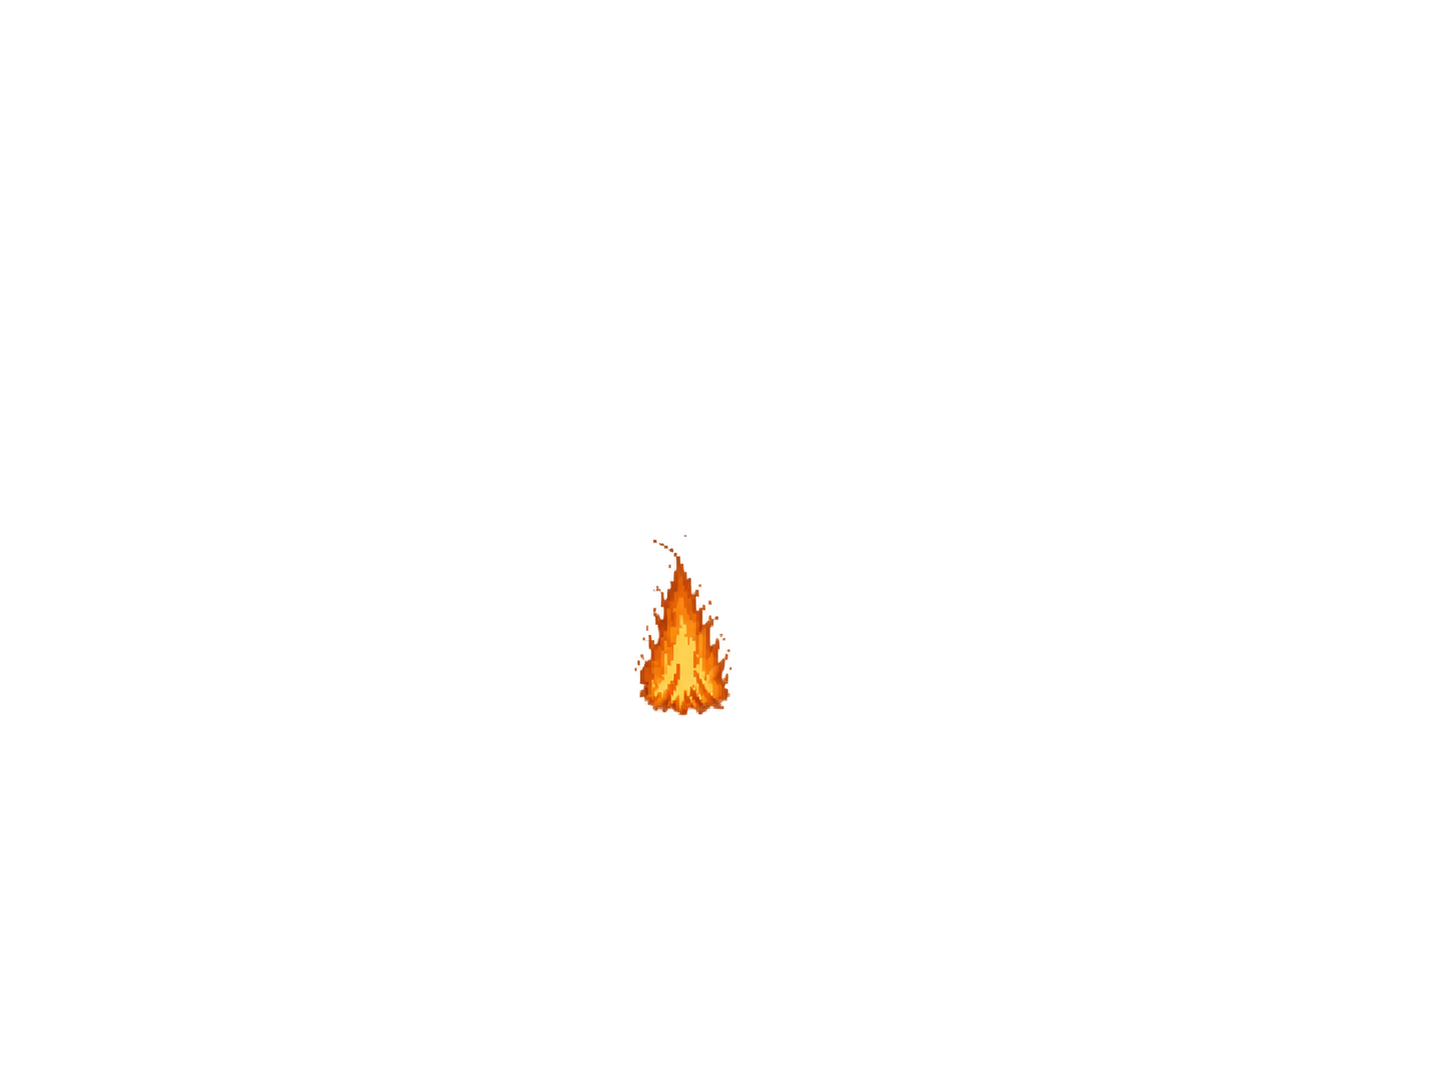
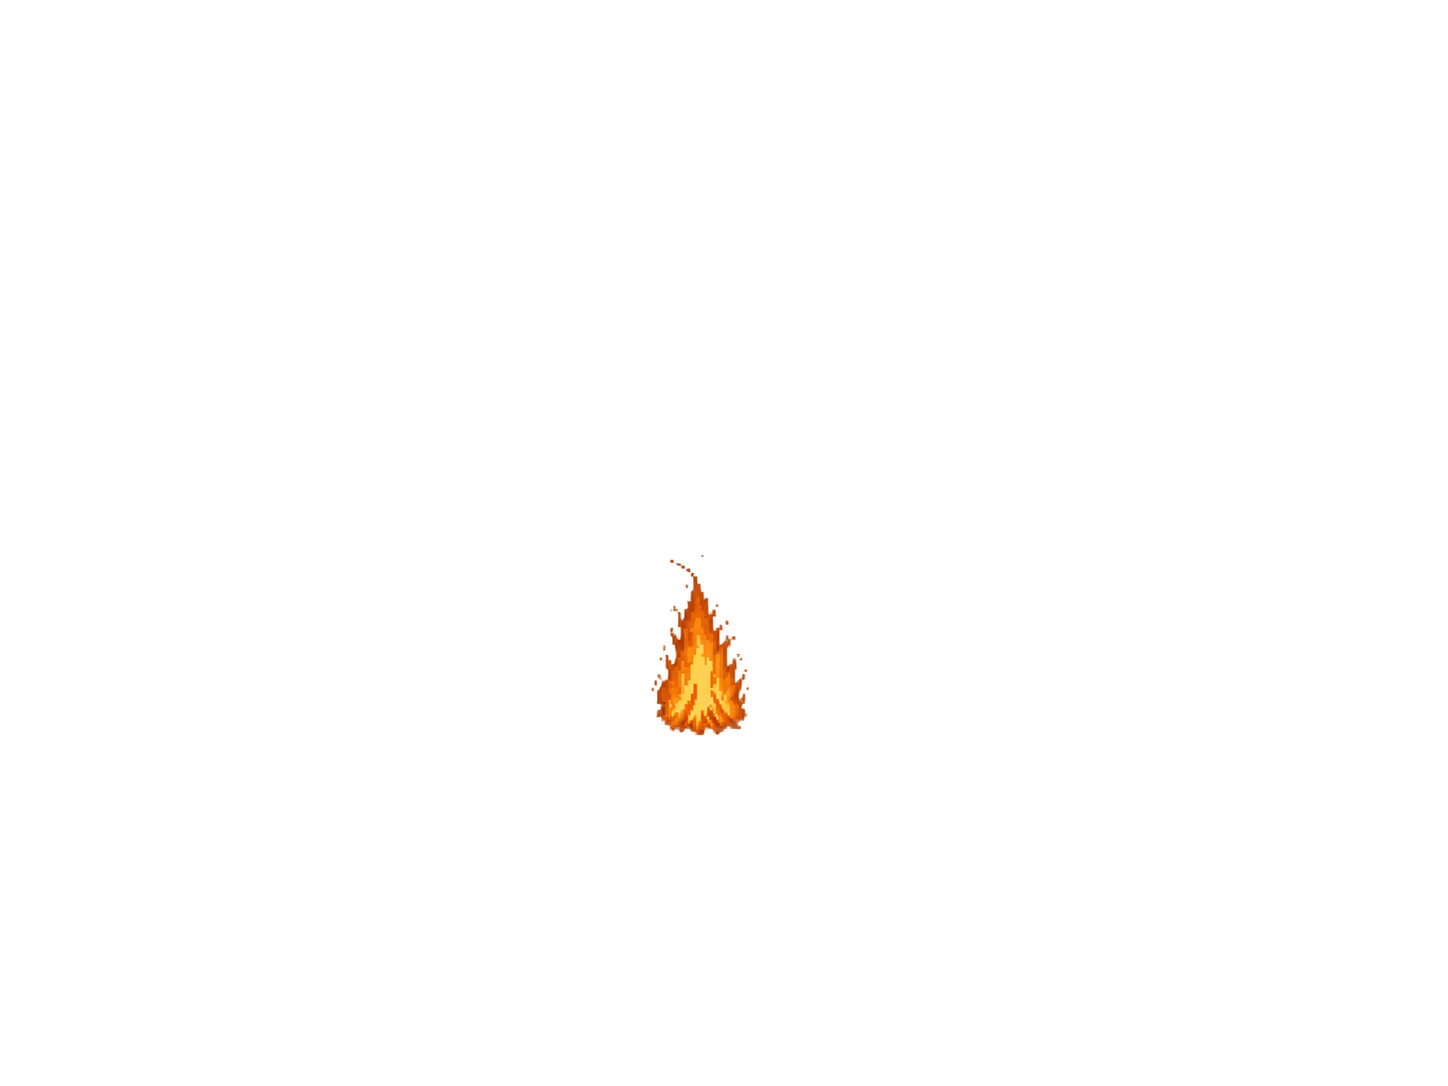
fix: lock fourth fire sprite placement

Changed region(s): [[0.4351, 0.5166, 0.5283, 0.6989]]

diff --git a/src/game/hub/animate.test.ts b/src/game/hub/animate.test.ts
@@ -126,7 +126,7 @@ describe("camp atmosphere contract", () => {
     expect(FIRE_4_OBJECT.label).toBe("FIRE-4");
     expect(FIRE_4_OBJECT.fullCanvas).toBe(true);
     expect(FIRE_4_OBJECT.src).toBe(CAMP_FIRE_4_SRC);
-    expect(FIRE_4_OBJECT.bounds).toEqual({ x: 634, y: 534, width: 98, height: 182 });
+    expect(FIRE_4_OBJECT.bounds).toEqual({ x: 651, y: 554, width: 98, height: 182 });
     expect(FIRE_4_OBJECT.bounds).not.toEqual(FIRE_1_OBJECT.bounds);
     expect(FIRE_4_OBJECT.zIndex).toBe(FIRE_1_OBJECT.zIndex);
     expect(editorOffset(true, undefined)).toEqual({ offsetX: 0, offsetY: 0 });

diff --git a/src/game/hub/animate.ts b/src/game/hub/animate.ts
@@ -70,11 +70,11 @@ export const FIRE_3_OBJECT: EditableObject = {
   zIndex: 1,
 };
 
-/** Measured opaque content of fire-4.png (1448×1086). Authoring offset starts at 0,0. */
+/** Measured opaque content of fire-4.png (1448×1086). Authoring offset starts at 0,0. LOCKED. */
 export const FIRE_4_OBJECT: EditableObject = {
   id: "fire-4",
   label: "FIRE-4",
-  bounds: { x: 634, y: 534, width: 98, height: 182 },
+  bounds: { x: 651, y: 554, width: 98, height: 182 },
   src: CAMP_FIRE_4_SRC,
   fullCanvas: true,
   zIndex: 1,
